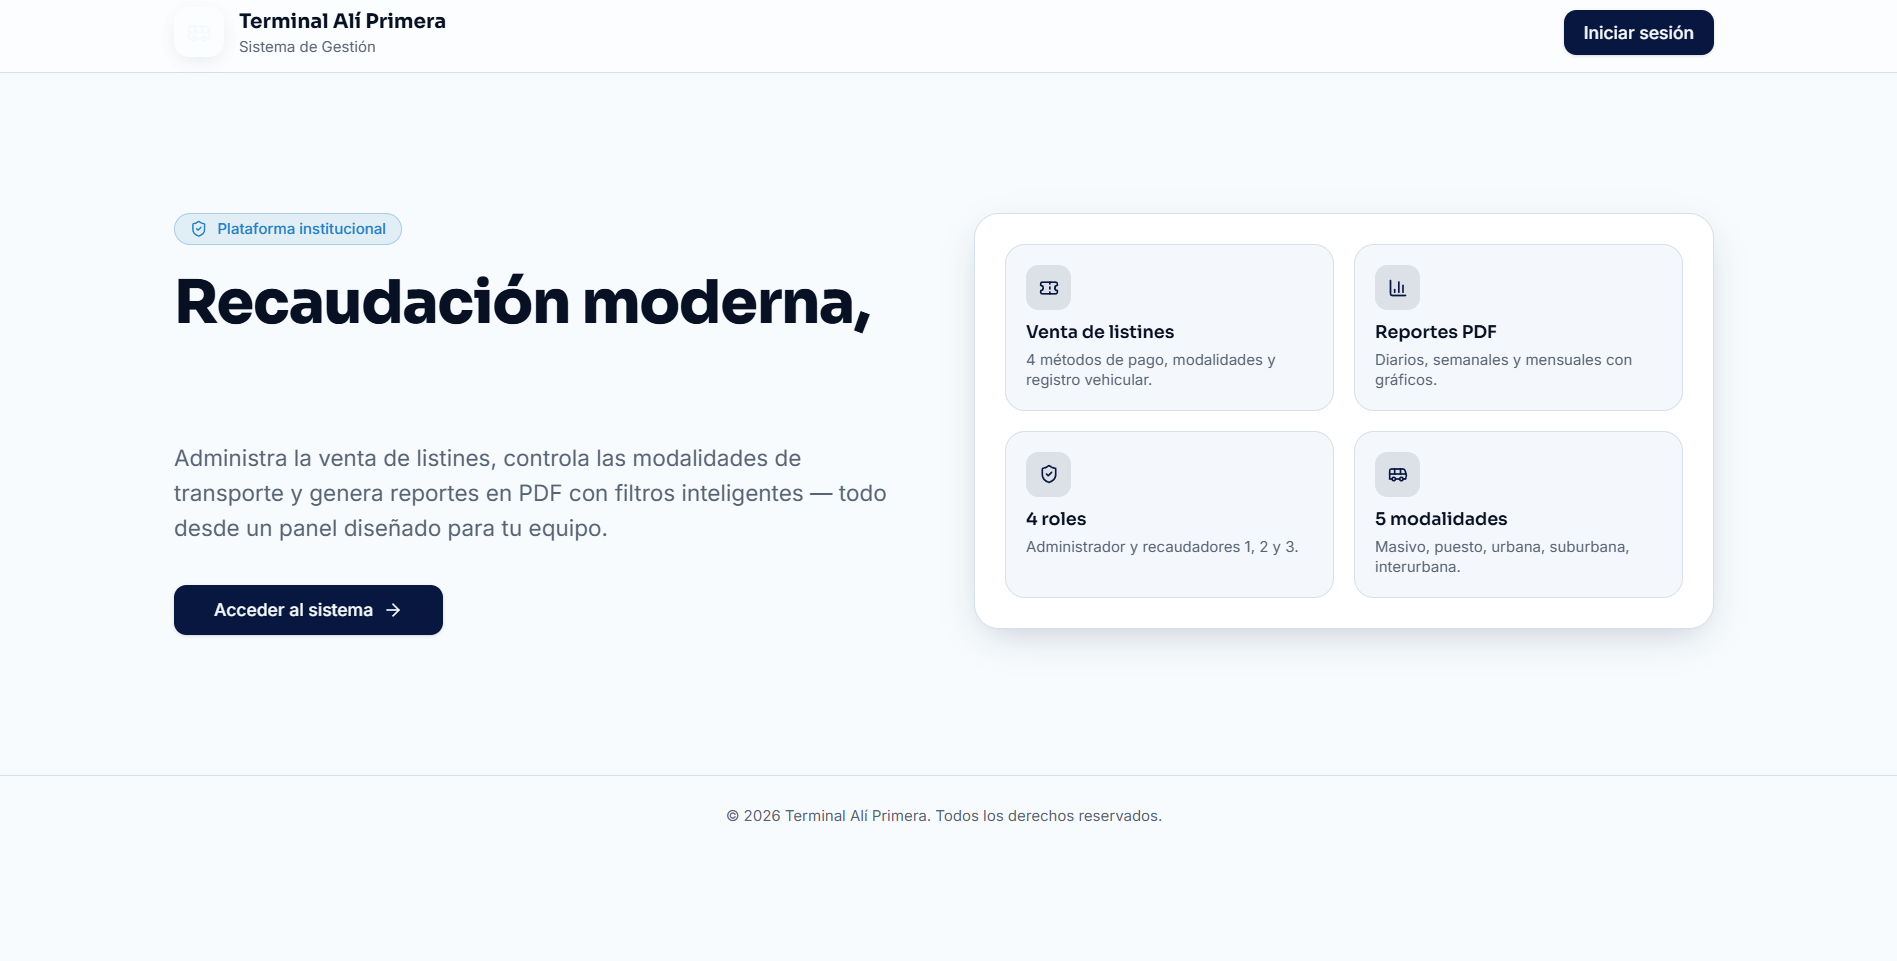
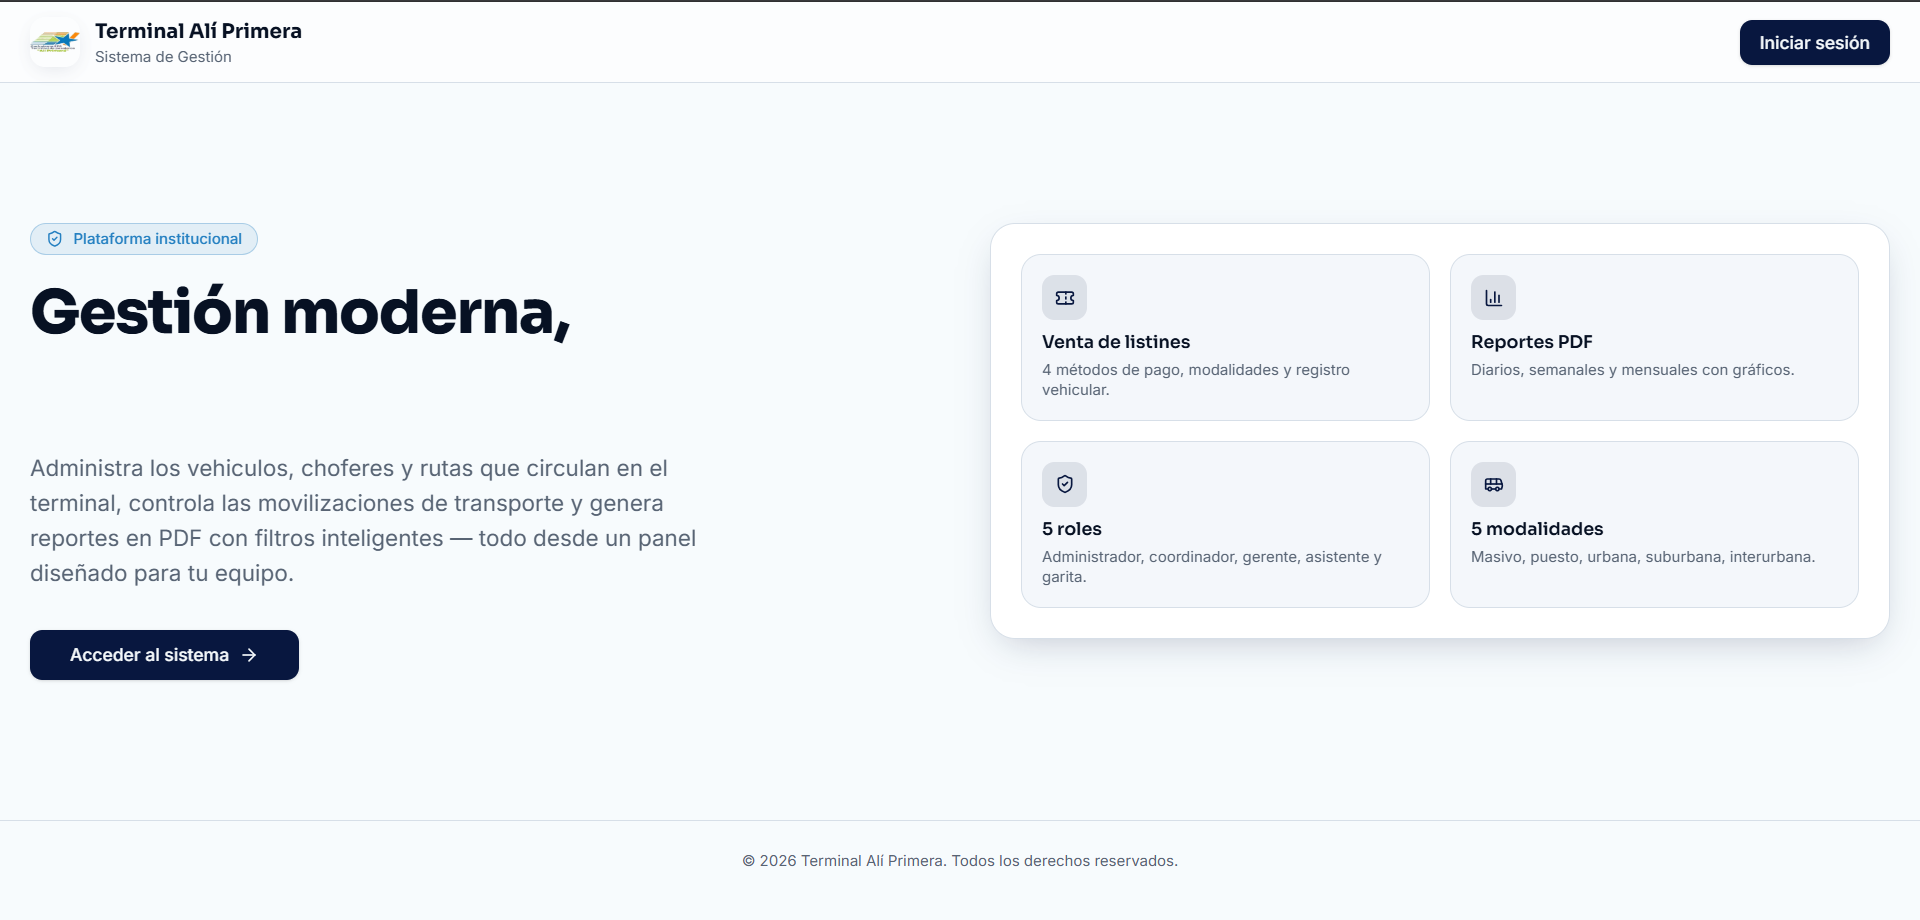
Update:Readme update with images for his sections

diff --git a/README.md b/README.md
@@ -24,6 +24,14 @@ Todo desde una interfaz web moderna, rapida y accesible desde cualquier computad
 
 Piensa en el sistema como un **libro de control digital** con varias secciones:
 
+### Inicio y acceso
+
+Pagina de inicio del sistema y pantalla de inicio de sesion:
+
+![Pagina de inicio](src/public/assets/index.png)
+
+![Inicio de sesion](src/public/assets/login.png)
+
 ### Garita (Entradas y Salidas)
 Es como un **cuaderno de bitacora**. Cada vez que un autobus llega al terminal, el operador de garita **registra una entrada**: anota la placa, el conductor, cuantos pasajeros trajo (desembarque), la ruta que hizo y si el servicio es suburbano (local) o interurbano (larga distancia). Cuando el autobus se va, **registra una salida**: anota los mismos datos mas las tasas cobradas.
 
@@ -68,6 +76,8 @@ Control de acceso de unidades al terminal. Permite:
 
 Panel de control y monitoreo. Dos vistas:
 
+![Movilizaciones](src/public/assets/movilizacion.png)
+
 **Control Operativo:**
 - Lista combinada de entradas y salidas, identificadas con badge **E** (azul) o **S** (naranja).
 - KPIs del dia: total movilizado, despachados, suspendidos, usuarios totales (entrada + salida), vehiculo mas usado.
@@ -85,9 +95,13 @@ Panel de control y monitoreo. Dos vistas:
 
 Catalogo de destinos. CRUD completo con busqueda de organizacion por RIF.
 
+![Rutas](src/public/assets/rutas.png)
+
 ### Conductores
 
 Registro de choferes con busqueda por nombre o cedula. CRUD completo.
+
+![Conductores](src/public/assets/choferes.png)
 
 ### Vehiculos
 
@@ -97,9 +111,13 @@ Inventario de autobuses con asignacion automatica de puestos segun el tipo. CRUD
 
 Gestion de acceso al sistema. CRUD completo con asignacion de rol.
 
+![Usuarios](src/public/assets/users.png)
+
 ### Dashboard
 
 Resumen operativo con tarjetas de movilizaciones activas, vehiculos operativos, choferes disponibles y rutas cubiertas. Graficos de rutas mas demandadas y horas pico. Ultimas movilizaciones registradas.
+
+![Dashboard](src/public/assets/dashboard.png)
 
 ---
 
